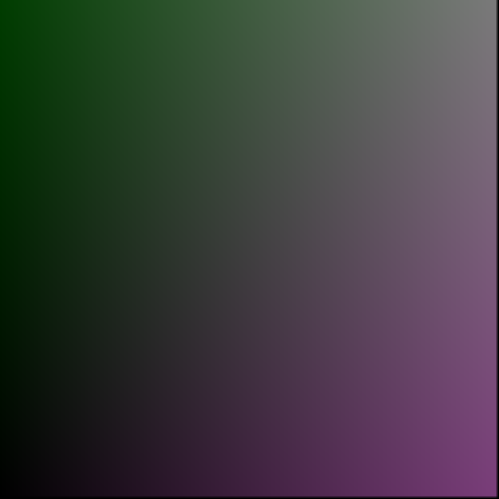
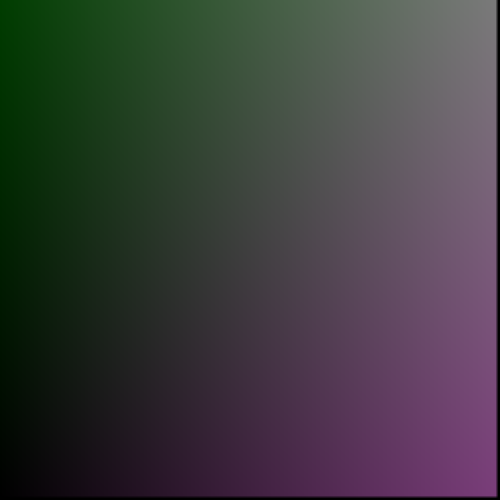
Error calculation done, some error in compression size

Changed region(s): [[0.5711, 0.0, 1.0, 1.0]]

diff --git a/EP_2.m b/EP_2.m
@@ -222,6 +222,7 @@ function result = compress(originalImg, k)
   #}
   
   p = rows(matriz_RGB);
+  
   n = floor((p + k)/(1 + k));
   
   #{
@@ -270,7 +271,8 @@ function result = decompress(compressedImg, method, k, h)
   matriz_RGB = ind2rgb(X, map);
   
   n = rows(matriz_RGB);
-  p = n + (n - 1)*k;
+
+  p = n + (n - 1)*k + 1;
   
   #{
   display(n)
@@ -337,48 +339,14 @@ function result = calculateError(imagem_RGB, decompressed_RGB)
     [X, map] = rgb2ind(matriz);
     imagem_RGB = ind2rgb(X, map);
     
-    errR = 0;
-    errG = 0;
-    errB = 0;
-    i = 1;
-    while (i <= rows(decompressed_RGB))
-        j = 1;
-        while (j <= columns(decompressed_RGB))
-            if (imagem_RGB(i, j, 1) != 0)
-              norm = (decompressed_RGB(i, j, 1) - imagem_RGB(i, j, 1))^2;
-              errR += norm/(imagem_RGB(i, j, 1)^2);              
-            endif
-            j += 1;
-        endwhile
-        i += 1;
-    endwhile
-    errR = sqrt(errR);
-    i = 1;
-    while (i <= rows(decompressed_RGB))
-        j = 1;
-        while (j <= columns(decompressed_RGB))
-            if (imagem_RGB(i, j, 2) != 0)
-                norm = (decompressed_RGB(i, j, 2) - imagem_RGB(i, j, 2))^2;
-                errG += norm/(imagem_RGB(i, j, 2)^2);
-            endif
-            j += 1;
-        endwhile
-        i += 1;
-    endwhile
-    errG = sqrt(errG);
-    i = 1;
-    while (i <= rows(decompressed_RGB))
-        j = 1;
-        while (j <= columns(decompressed_RGB))
-            if (imagem_RGB(i, j, 3) != 0)
-                norm = (decompressed_RGB(i, j, 3) - imagem_RGB(i, j, 3))^2;
-                errB += norm/(imagem_RGB(i, j, 3)^2); 
-            endif
-            j += 1;
-        endwhile
-        i += 1;
-    endwhile
-    errB = sqrt(errB);
+    matriz_dif_R = imagem_RGB(:,:,1) - decompressed_RGB(:,:,1);
+    matriz_dif_G = imagem_RGB(:,:,2) - decompressed_RGB(:,:,2);
+    matriz_dif_B = imagem_RGB(:,:,3) - decompressed_RGB(:,:,3);
+    
+    errR = norm(matriz_dif_R, 2)/norm(imagem_RGB(:,:,1), 2);
+    errG = norm(matriz_dif_G, 2)/norm(imagem_RGB(:,:,2), 2);
+    errB = norm(matriz_dif_B, 2)/norm(imagem_RGB(:,:,3), 2);
+    
     result = (errR + errG + errB)/3;
     return;
 endfunction

diff --git a/teste_bicubica.m b/teste_bicubica.m
@@ -7,7 +7,7 @@ function result = f(x, y)
 endfunction
 
 function result = f_x(x, y, h)
-  
+    
   #  result = cos(x)*cos(y);
   
   result = (f(x+h, y) - f(x-h, y))/2*h;
